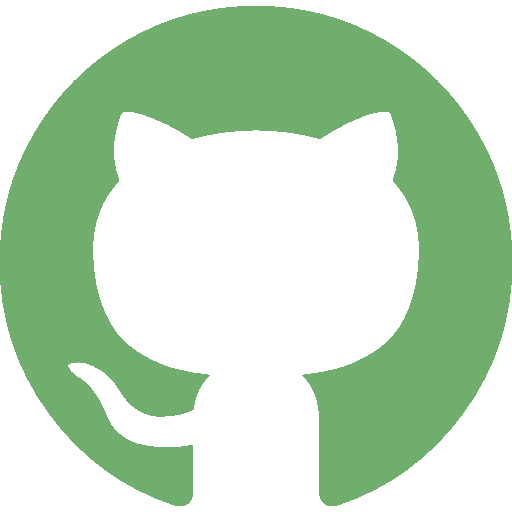
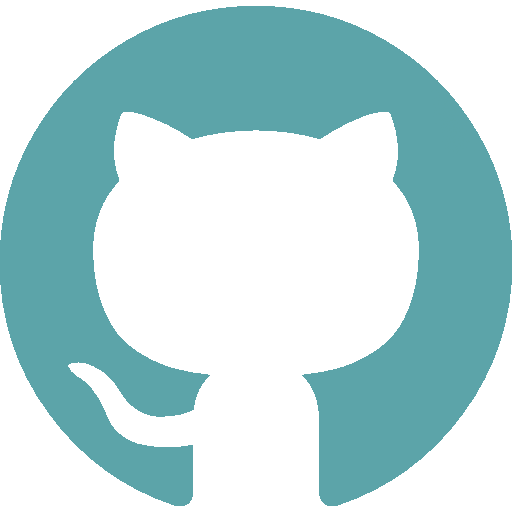
update

diff --git a/index.html b/index.html
@@ -29,7 +29,7 @@
 
   <main>
     <article class="blocks">
-      <p class="text"> <img src="plutt.png" alt="plutt" style="width: 30px;"> Hi! I'm a patternmaker with broad experience with textile. I’ve now begun to learn to code and are becoming a frontend developer. The one thing I think is most common between patternmaking and
+      <p class="text"> <img src="plutt.png" alt="dot" style="width: 30px;"> Hi! I'm a patternmaker with broad experience with textile. I’ve now begun to learn to code and are becoming a frontend developer. The one thing I think is most common between patternmaking and
         coding is the both are depending on great problem solving skills. I also enjoy that my interest in design can be used when I’m coding. .</p>
     </article>
     <section class="blocks">
@@ -41,7 +41,7 @@
       <section class="withpic-box">
         <article class="article-whitpic">
           <img class="featured-img" src="weather.PNG" alt="weather app">
-          <h4><span class="red">WEATHER APP.</span> Web app build in JavaScript using open weather API.<a class="red" href="https://weather-sara.netlify.com">>></a></h4>
+          <h4><span class="detail">WEATHER APP.</span> Web app build in JavaScript using open weather API.<a class="detail" href="https://weather-sara.netlify.com">>></a></h4>
           <ul class="skills">
             <li class="skill-item">HTML5</li>
             <li class="skill-item">CSS</li>
@@ -50,7 +50,7 @@
         </article>
         <article class="article-whitpic">
           <img class="featured-img" src="Survey.PNG" alt="Survey page">
-          <h4><span class="red">SURVEY.</span>Survey built with React.<a class="red" href="https://gamesurvey.netlify.com/">>></a></h4>
+          <h4><span class="detail">SURVEY.</span>Survey built with React.<a class="detail" href="https://gamesurvey.netlify.com/">>></a></h4>
           <ul class="skills">
             <li class="skill-item">React</li>
             <li class="skill-item">CSS</li>
@@ -61,7 +61,7 @@
       <h3>OTHER PROJECTS</h3>
       <section class="article-box">
         <article class="short-text">
-          <h4><span class="red">NORRBEE IN.</span> Web page with forms sending information to Jsbin.<a class="red" href="https://norrbeein.netlify.com">>></a></h4>
+          <h4><span class="detail">NORRBEE IN.</span> Web page with forms sending information to Jsbin.<a class="detail" href="https://norrbeein.netlify.com">>></a></h4>
           <ul class="skills">
             <li class="skill-item">HTML5</li>
             <li class="skill-item">CSS</li>
@@ -89,7 +89,7 @@
 
         <ul>
           <li class="skill-list">UPCOMING</li>
-          <li class="skill-name">soon</li>
+          <li class="skill-name">...</li>
         </ul> <br>
 
         <ul>

diff --git a/style.css b/style.css
@@ -75,7 +75,7 @@ header {
   display: flex;
   justify-content: center;
   align-items: center;
-  border: 1px solid #86BA90;
+  border: 1px solid #5ca4a9;
   border-radius: 20px;
   width: 40px;
   height: 40px;
@@ -122,7 +122,7 @@ header {
 
 .main-h2 {
   color: white;
-  background-color: #D63230;
+  background-color: #27233A;
   padding: 3px;
   align-self: center;
 }
@@ -180,7 +180,7 @@ h3 {
 .skill-item {
   font-size: 13px;
   color: white;
-  background-color: #FF6D4C;
+  background-color: #505168;
   padding: 3px;
   margin: 3px;
 }
@@ -190,12 +190,12 @@ a {
   cursor: pointer;
 }
 
-.red {
-  color: #D63230;
+.detail {
+  color: #505168;
 }
 
 footer {
-  background-color: #86BA90;
+  background-color: #5ca4a9;
   display: flex;
   text-align: center;
   justify-content: center;
@@ -217,7 +217,7 @@ ul {
   display: flex;
   flex-direction: column;
   list-style: none;
-  color: #D63230;
+  color: tomato;
   padding: 2px;
 }
 
